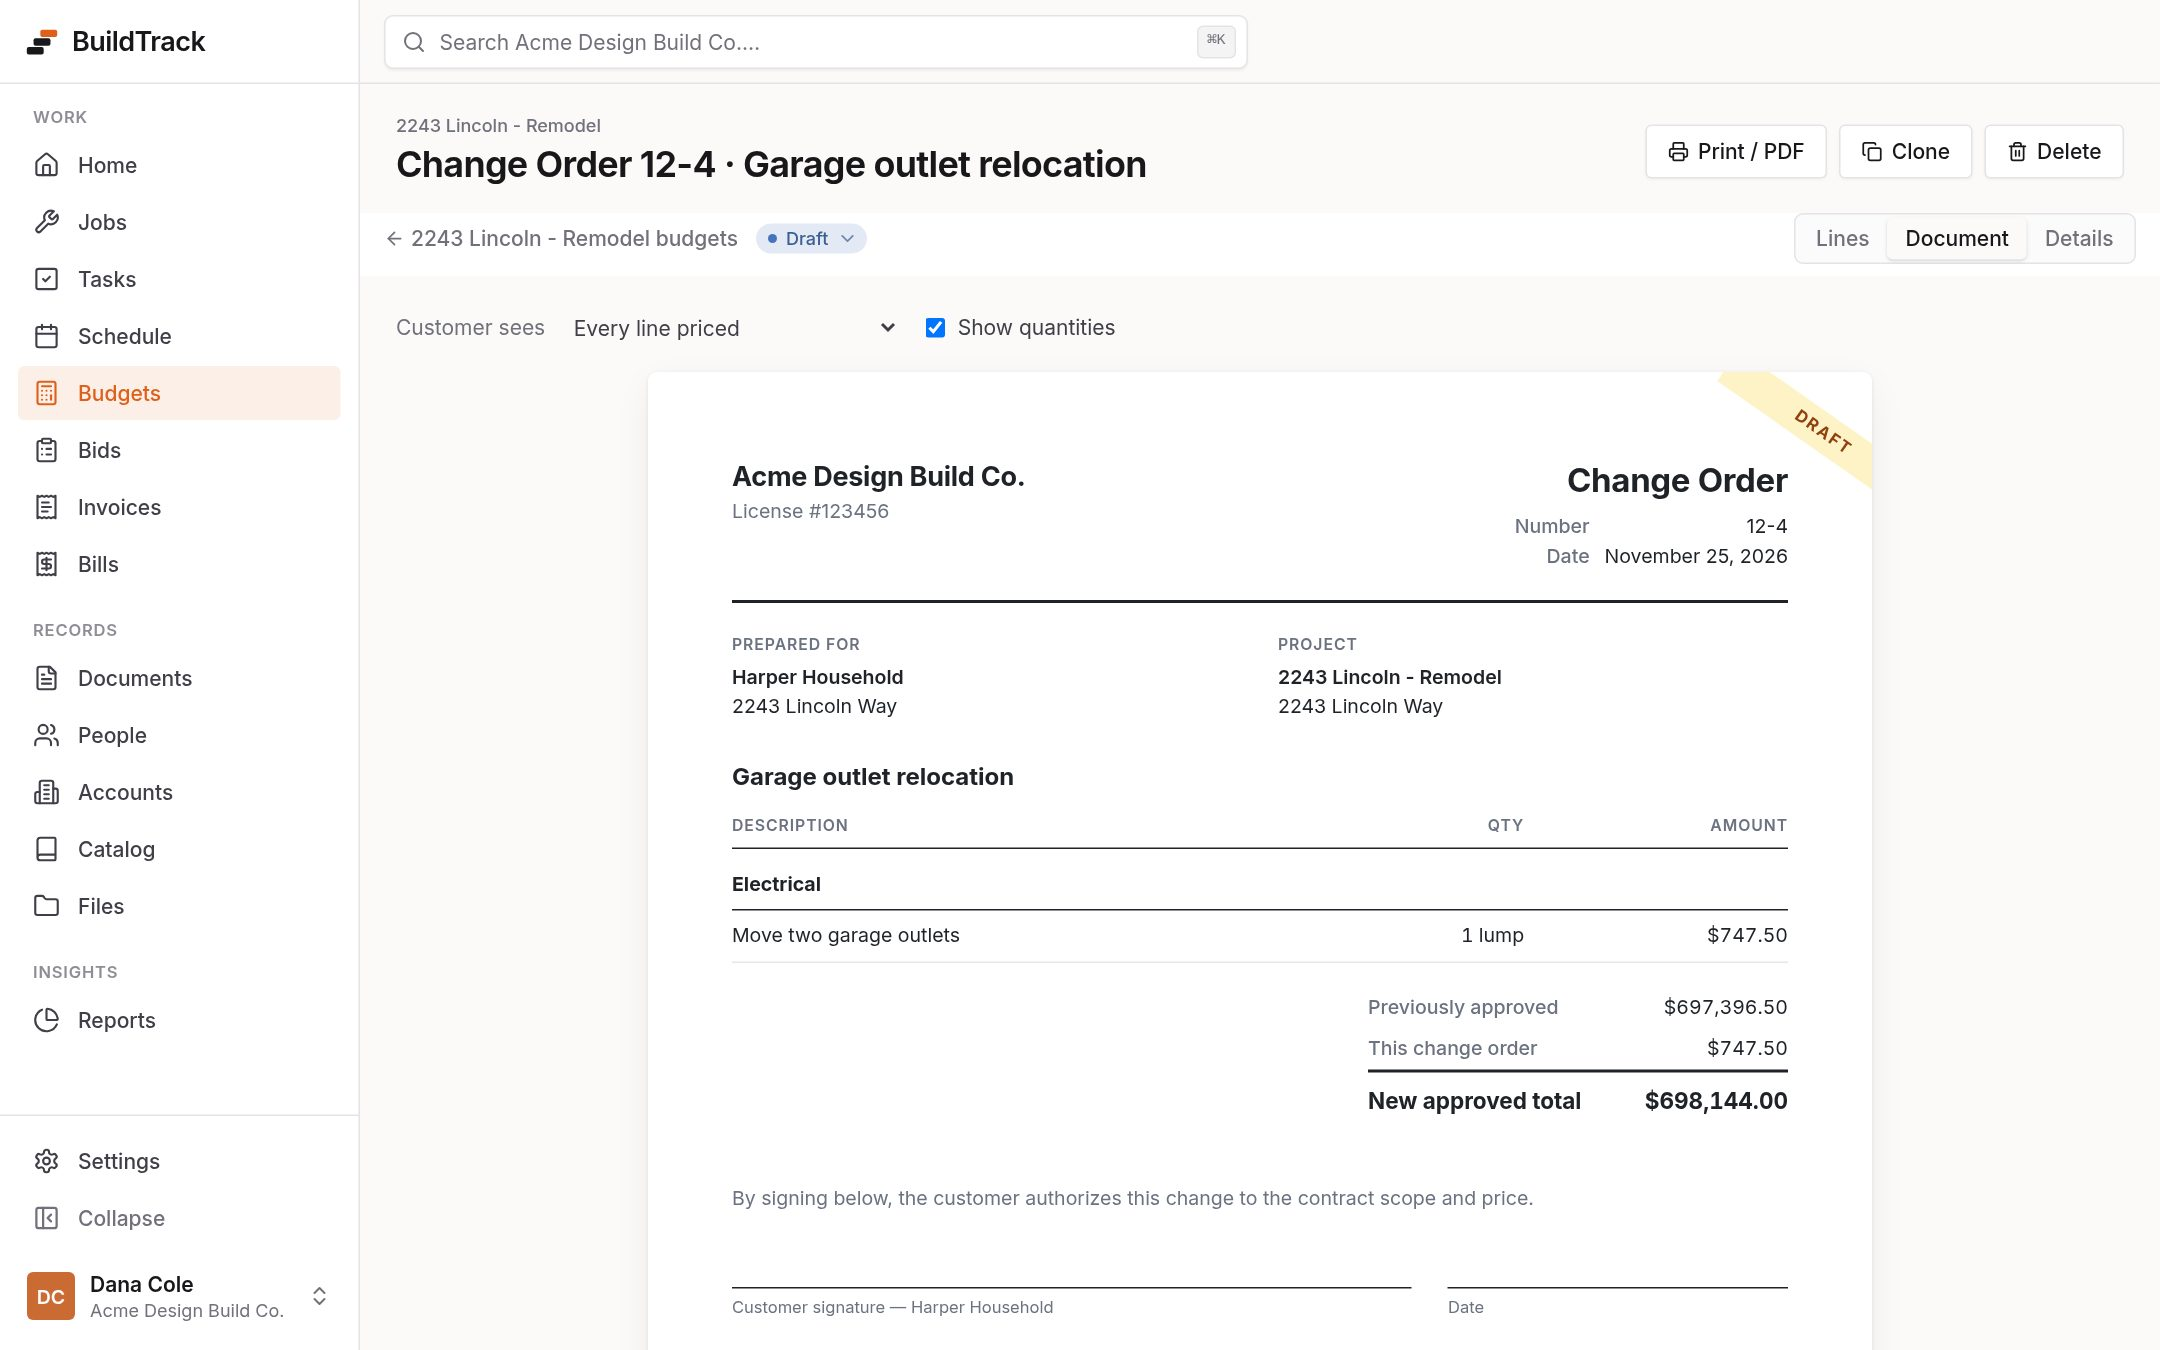
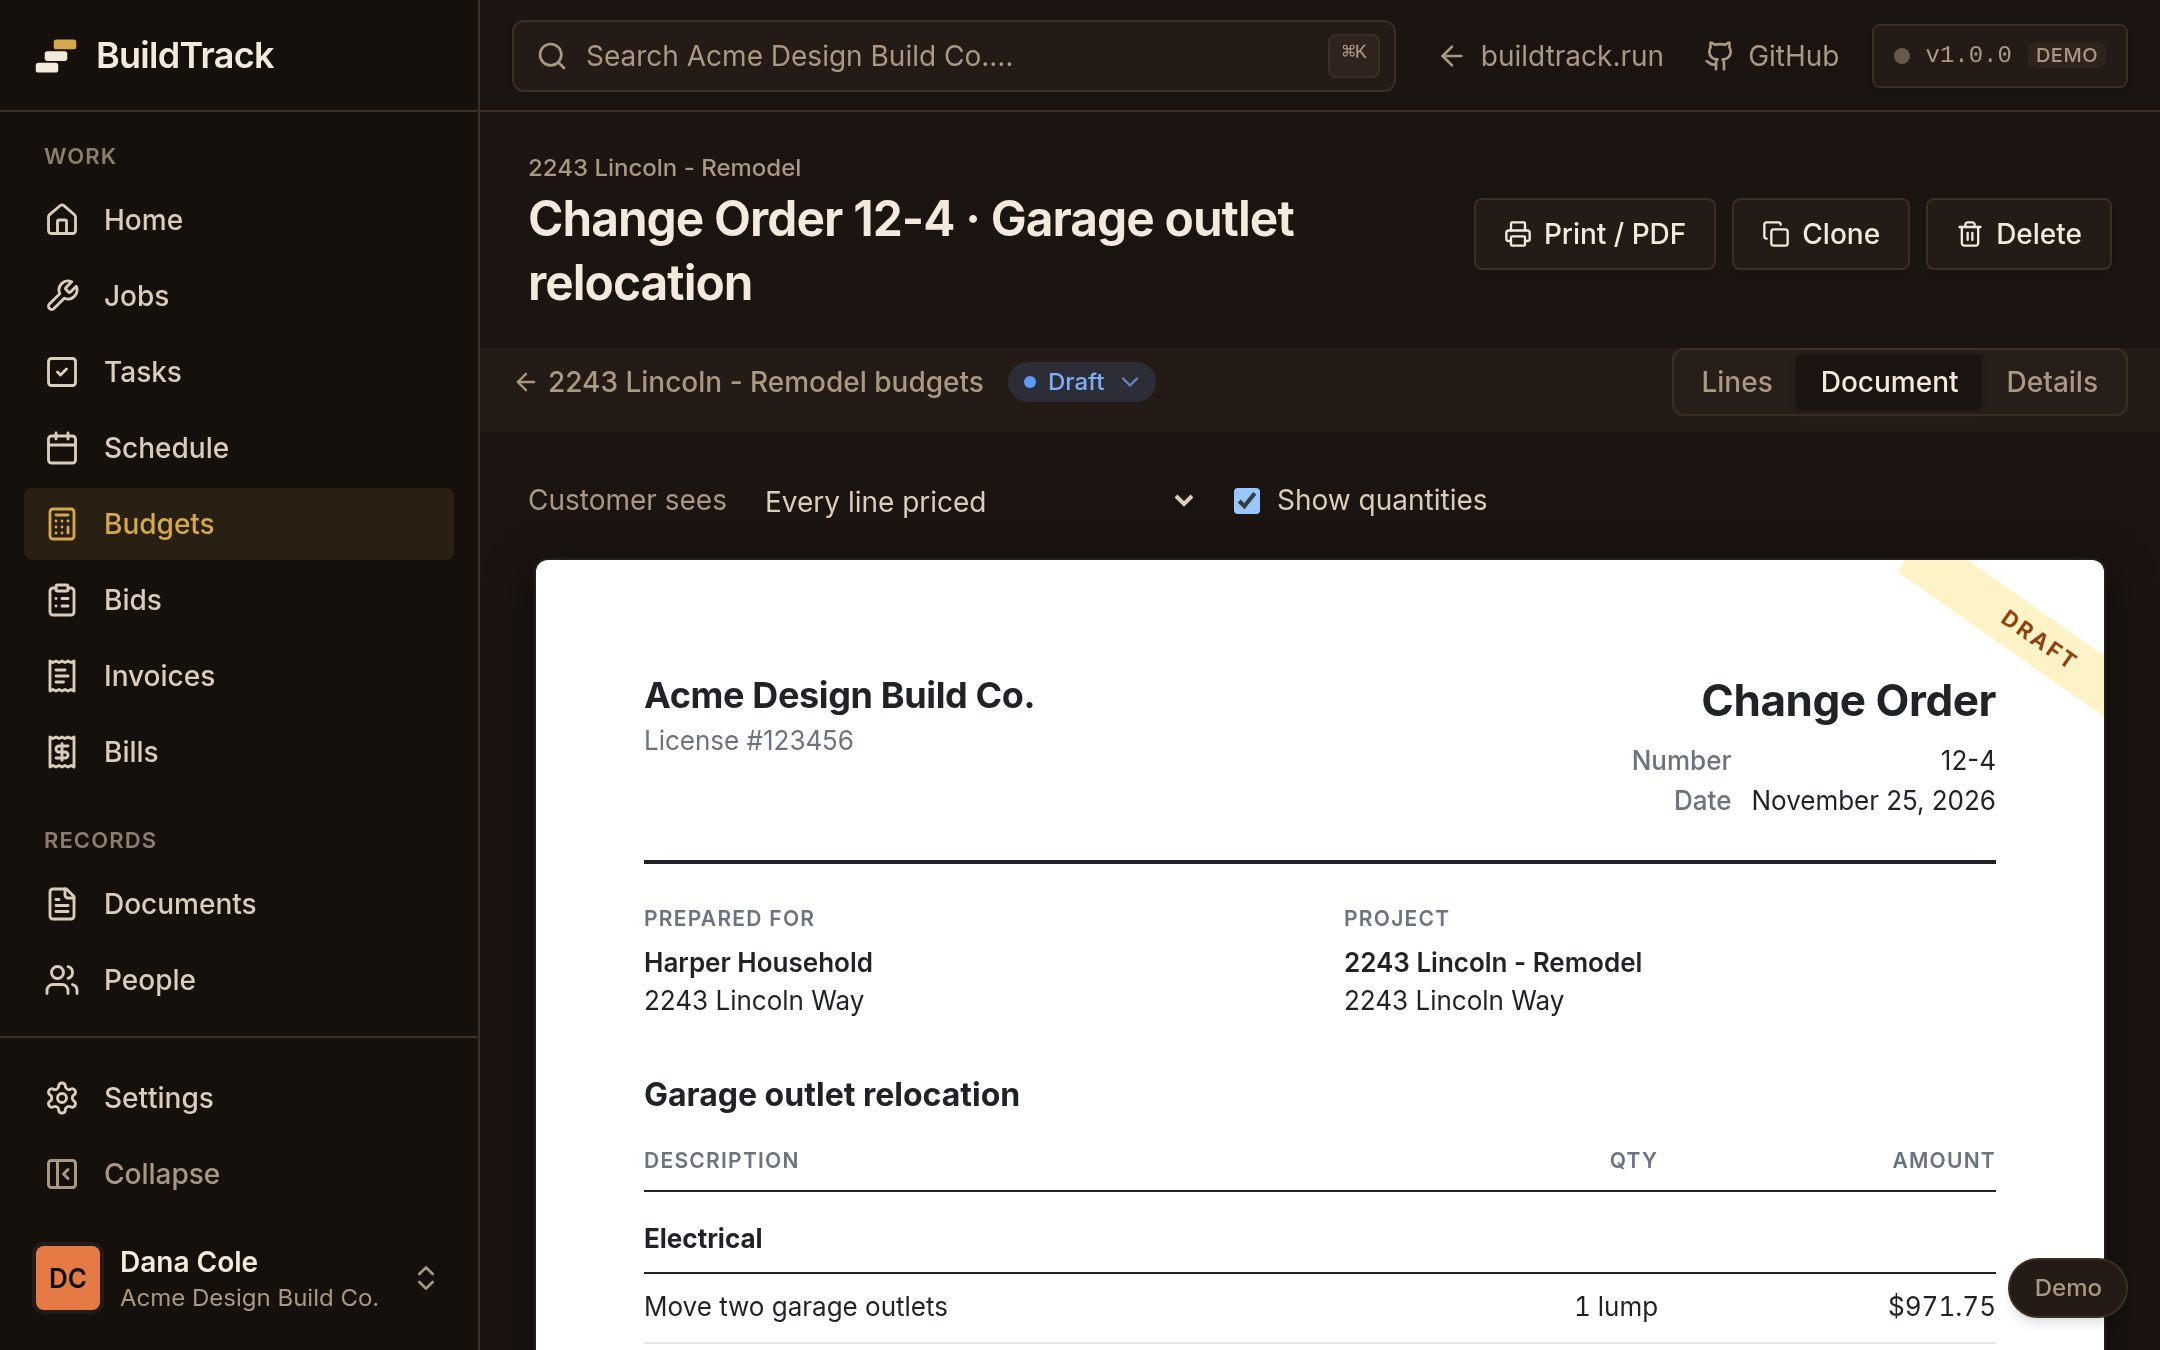
Screenshots in six different themes with the new sample prices; say who it's for
- Home (BuildTrack), change order (Walnut dark), invoices (Kraft), bids (Blueprint dark),
  schedule (Sage), plugins (Hi-Vis dark)
- Hero mini-app amounts match the demo's new sample data
- For general contractors, remodelers, trades and anyone who works for customers on a jobsite

diff --git a/index.html b/index.html
@@ -6,7 +6,7 @@
     <title>BuildTrack — job management that bends to how you build</title>
     <meta
       name="description"
-      content="BuildTrack is a lightweight, open-source job management app for design-build and remodeling contractors: jobs, budgets, change orders, invoices, bids and schedules, built so you and your AI agents can shape it around your workflow."
+      content="BuildTrack is a lightweight, open-source job management app for general contractors, remodelers, trades and anyone who does work for customers on a jobsite: jobs, budgets, change orders, invoices, bids and schedules, built so you and your AI agents can shape it around your workflow."
     />
     <meta name="theme-color" content="#f54a00" />
     <link rel="icon" href="/assets/buildtrack-logo.svg" type="image/svg+xml" />
@@ -48,9 +48,9 @@
         <p class="eyebrow"><span class="dot"></span> Open source · Built for the agentic era</p>
         <h1>Job management that bends to how&nbsp;you&nbsp;build.</h1>
         <p class="lede">
-          BuildTrack is a lightweight app for design-build and remodeling contractors. Jobs, budgets, change orders,
-          invoices, bids and schedules, without the bloat. Every part of it is a plugin that you and your AI agents
-          can switch off, change or replace, so it works the way your company actually works.
+          For general contractors, remodelers, trades and anyone else who works for customers on a jobsite: jobs,
+          budgets, change orders, invoices, bids and schedules, without the bloat. Every part is a plugin that you and
+          your AI agents can switch off, change or replace.
         </p>
         <div class="cta-row">
           <a class="btn btn-primary" href="https://github.com/Cody-Design-Build/BuildTrack">
@@ -68,7 +68,7 @@
       </section>
 
       <section class="pains wrap" aria-labelledby="pains-title">
-        <h2 id="pains-title" class="section-title">Built for contractors who've outgrown their software, or never found any that fit.</h2>
+        <h2 id="pains-title" class="section-title">For anyone who works on customers' jobsites and has outgrown their software, or never found any that fit.</h2>
         <div class="grid-3">
           <article class="card">
             <h3>Your workflow, not theirs</h3>
@@ -76,7 +76,7 @@
           </article>
           <article class="card">
             <h3>No bloat to pay for</h3>
-            <p>No 40-module suite where you use six. The core of running a design-build job, done cleanly: budgets to signed change orders to progress invoices to job costing.</p>
+            <p>No 40-module suite where you use six. The core of running a job, done cleanly: budgets to signed change orders to progress invoices to job costing.</p>
           </article>
           <article class="card">
             <h3>Your data stays yours</h3>
@@ -240,7 +240,7 @@
       </section>
 
       <section class="origin wrap">
-        <figure class="frame origin-frame"><img src="/assets/shots/settings-plugins.jpg" alt="Settings → Plugins, listing each installed plugin with a switch and what it adds" loading="lazy" width="2160" height="1350" /></figure>
+        <figure class="frame origin-frame"><img src="/assets/shots/settings-plugins.jpg" alt="Settings → Plugins in the Hi-Vis dark theme, listing each installed plugin with a switch and what it adds" loading="lazy" width="2160" height="1350" /></figure>
         <div>
           <h2 class="section-title">Built by a builder.</h2>
           <p class="lede">

diff --git a/app.js b/app.js
@@ -26,9 +26,9 @@ const RECORDS = [
   ['Accounts', 'M4 21V8l8-5 8 5v13M9 21v-6h6v6M8 11h2M14 11h2'],
 ];
 const INVOICES = [
-  ['Invoice 12-2', 'Harper Household', 'Overdue', 'red', '$11,645'],
-  ['Invoice 8-2', 'Sam Ortiz', 'Sent', 'amber', '$12,135'],
-  ['Invoice 11-5', 'Kim & Lee', 'Paid', 'green', '$26,763'],
+  ['Invoice 12-2', 'Harper Household', 'Overdue', 'red', '$15,139'],
+  ['Invoice 8-2', 'Sam Ortiz', 'Sent', 'amber', '$15,776'],
+  ['Invoice 11-5', 'Kim & Lee', 'Paid', 'green', '$34,792'],
 ];
 const TASKS = [
   ['Walk 2200 Mesa with the clients', 'Today', false],
@@ -36,11 +36,11 @@ const TASKS = [
   ['Send change order 12-4', 'Done', true],
 ];
 const JOBS = [
-  ['Rivera Household', 'Oak Avenue Bathrooms', 'In progress', 'blue', '$65,465'],
-  ['Patel Household', '87th St. ADU', 'In progress', 'blue', '$219,050'],
-  ['Kim & Lee', '1448 Elm · Full remodel', 'Approved', 'green', '$535,255'],
-  ['Northgate Homes', '2200 Mesa · ADU', 'Bidding', 'amber', '$105,950'],
-  ['Brooks Family', '77 Juniper · Addition', 'Lead', 'purple', '$42,000'],
+  ['Rivera Household', 'Oak Avenue Bathrooms', 'In progress', 'blue', '$85,520'],
+  ['Patel Household', '87th St. ADU', 'In progress', 'blue', '$284,795'],
+  ['Kim & Lee', '1448 Elm · Full remodel', 'Approved', 'green', '$696,419'],
+  ['Northgate Homes', '2200 Mesa · ADU', 'Bidding', 'amber', '$137,845'],
+  ['Brooks Family', '77 Juniper · Addition', 'Lead', 'purple', '$54,600'],
 ];
 const GANTT = [
   ['Demolition', 4, 18, 100],
@@ -56,9 +56,9 @@ function miniHTML({ compact = false } = {}) {
   const invoices = INVOICES.map(([n, who, st, slot, t]) => `<div class="m-row m-row3"><span class="m-strong">${n}</span><span class="m-dim">${who}</span><span class="m-pill" style="--c: var(--c-${slot})">${st}</span><span class="num">${t}</span></div>`).join('');
   const tasks = TASKS.map(([t, when, done]) => `<div class="m-task${done ? ' done' : ''}"><span class="m-check"></span><span class="m-strong">${t}</span><span class="m-dim">${when}</span></div>`).join('');
   const stats = [
-    ['Active contracts', '$1,672,957', '6 jobs underway'],
-    ['Open invoices', '$83,340', '5 awaiting payment'],
-    ['Pipeline', '$45,800', '5 leads & estimates'],
+    ['Active contracts', '$2,178,255', '6 jobs underway'],
+    ['Open invoices', '$108,327', '5 awaiting payment'],
+    ['Pipeline', '$59,550', '5 leads & estimates'],
     ['Margin', '15.2%', 'across approved work'],
   ]
     .slice(0, compact ? 3 : 4)
@@ -81,7 +81,7 @@ function miniHTML({ compact = false } = {}) {
         <div class="m-title">Good morning, Dana</div>
         <div class="m-stats">${stats}</div>
         <div class="m-cols">
-          <div class="m-card"><div class="m-head">Active jobs <span class="m-count">5</span></div>${rows}<div class="m-row m-total"><span>Total</span><span></span><span></span><span class="num">$967,720</span></div></div>
+          <div class="m-card"><div class="m-head">Active jobs <span class="m-count">5</span></div>${rows}<div class="m-row m-total"><span>Total</span><span></span><span></span><span class="num">$1,259,179</span></div></div>
           ${compact ? '' : `<div class="m-card"><div class="m-head">Schedule · 2243 Lincoln</div>${gantt}<div class="m-actions"><span class="m-btn danger">Void</span><span class="m-btn">Send</span><span class="m-btn primary">Approve</span></div></div>`}
         </div>
         ${compact ? '' : `<div class="m-cols">
